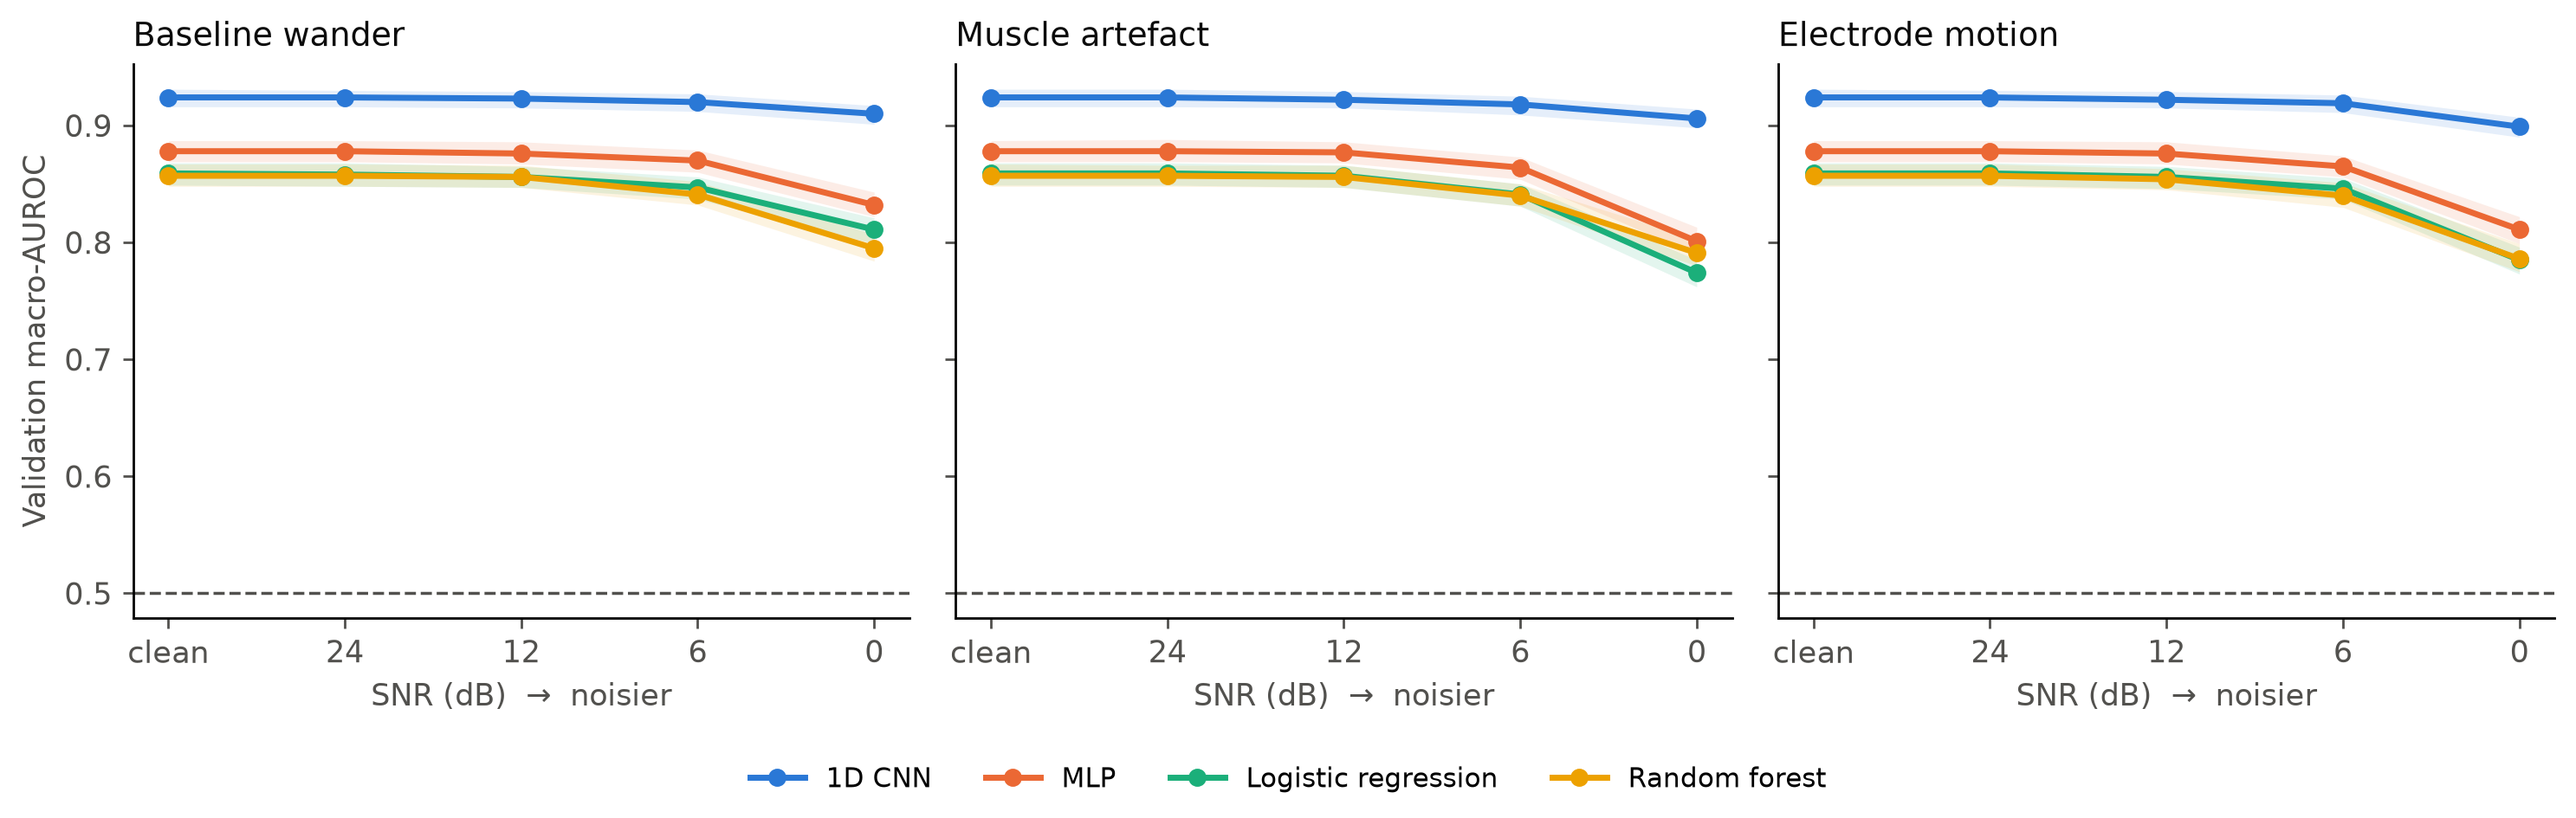
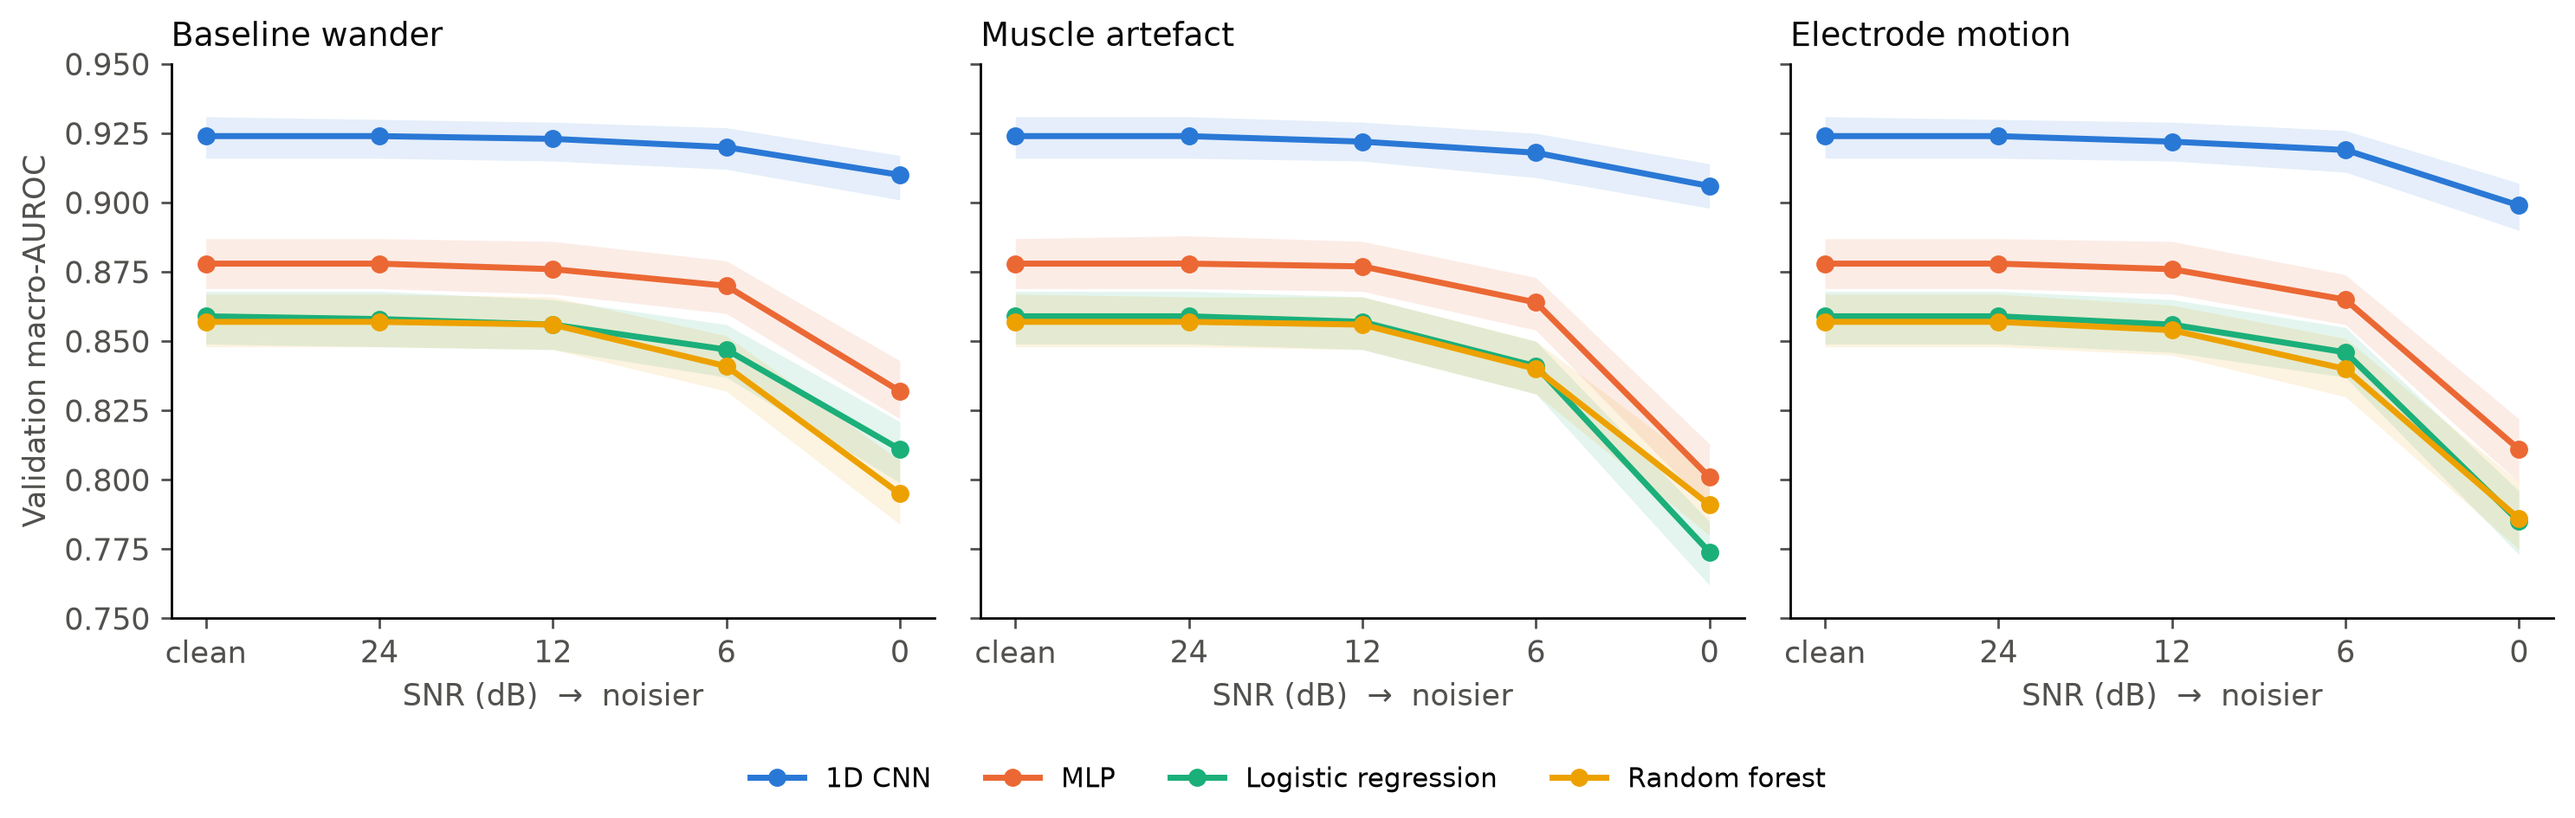
Add NSTDB noise experiment results and Figure 3 (macro-AUROC vs SNR)

diff --git a/src/noise/plot_snr.py b/src/noise/plot_snr.py
@@ -21,7 +21,7 @@ for ax, (rec, title) in zip(axes, NOISE.items()):
         part = pd.concat([clean.assign(order=0), noisy])
         ax.plot(part["order"], part["macro_auroc"], marker="o", ms=5, lw=2, color=color, label=label)
         ax.fill_between(part["order"], part["ci_low"], part["ci_high"], color=color, alpha=0.12, lw=0)
-    ax.axhline(0.5, ls="--", lw=1, color=MUTED)
+        ax.set_ylim(0.75, 0.95)
     ax.set_xticks(range(5), X_LABELS)
     ax.set_xlabel("SNR (dB)  →  noisier", color=MUTED)
     ax.set_title(title, loc="left", fontsize=11, color=INK)
